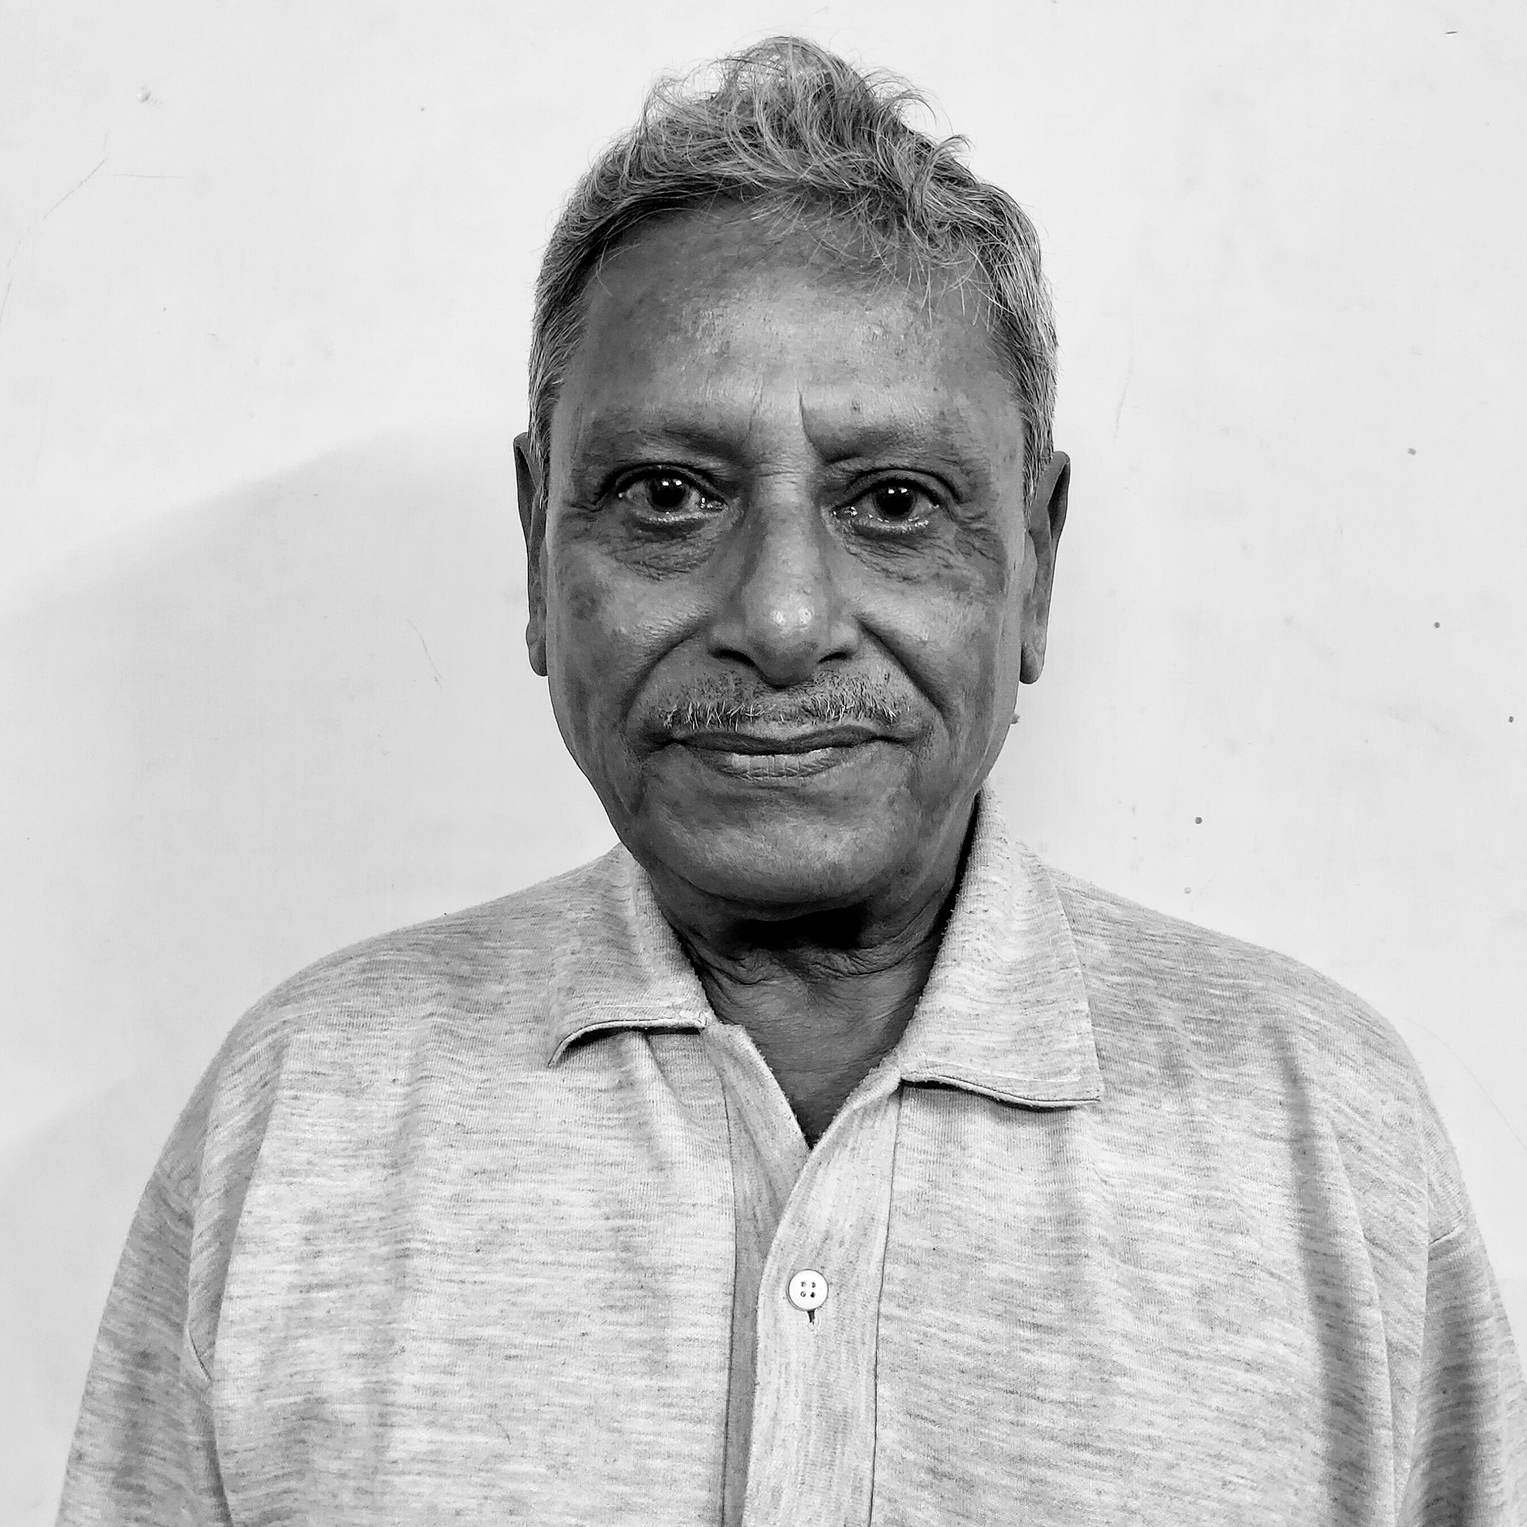
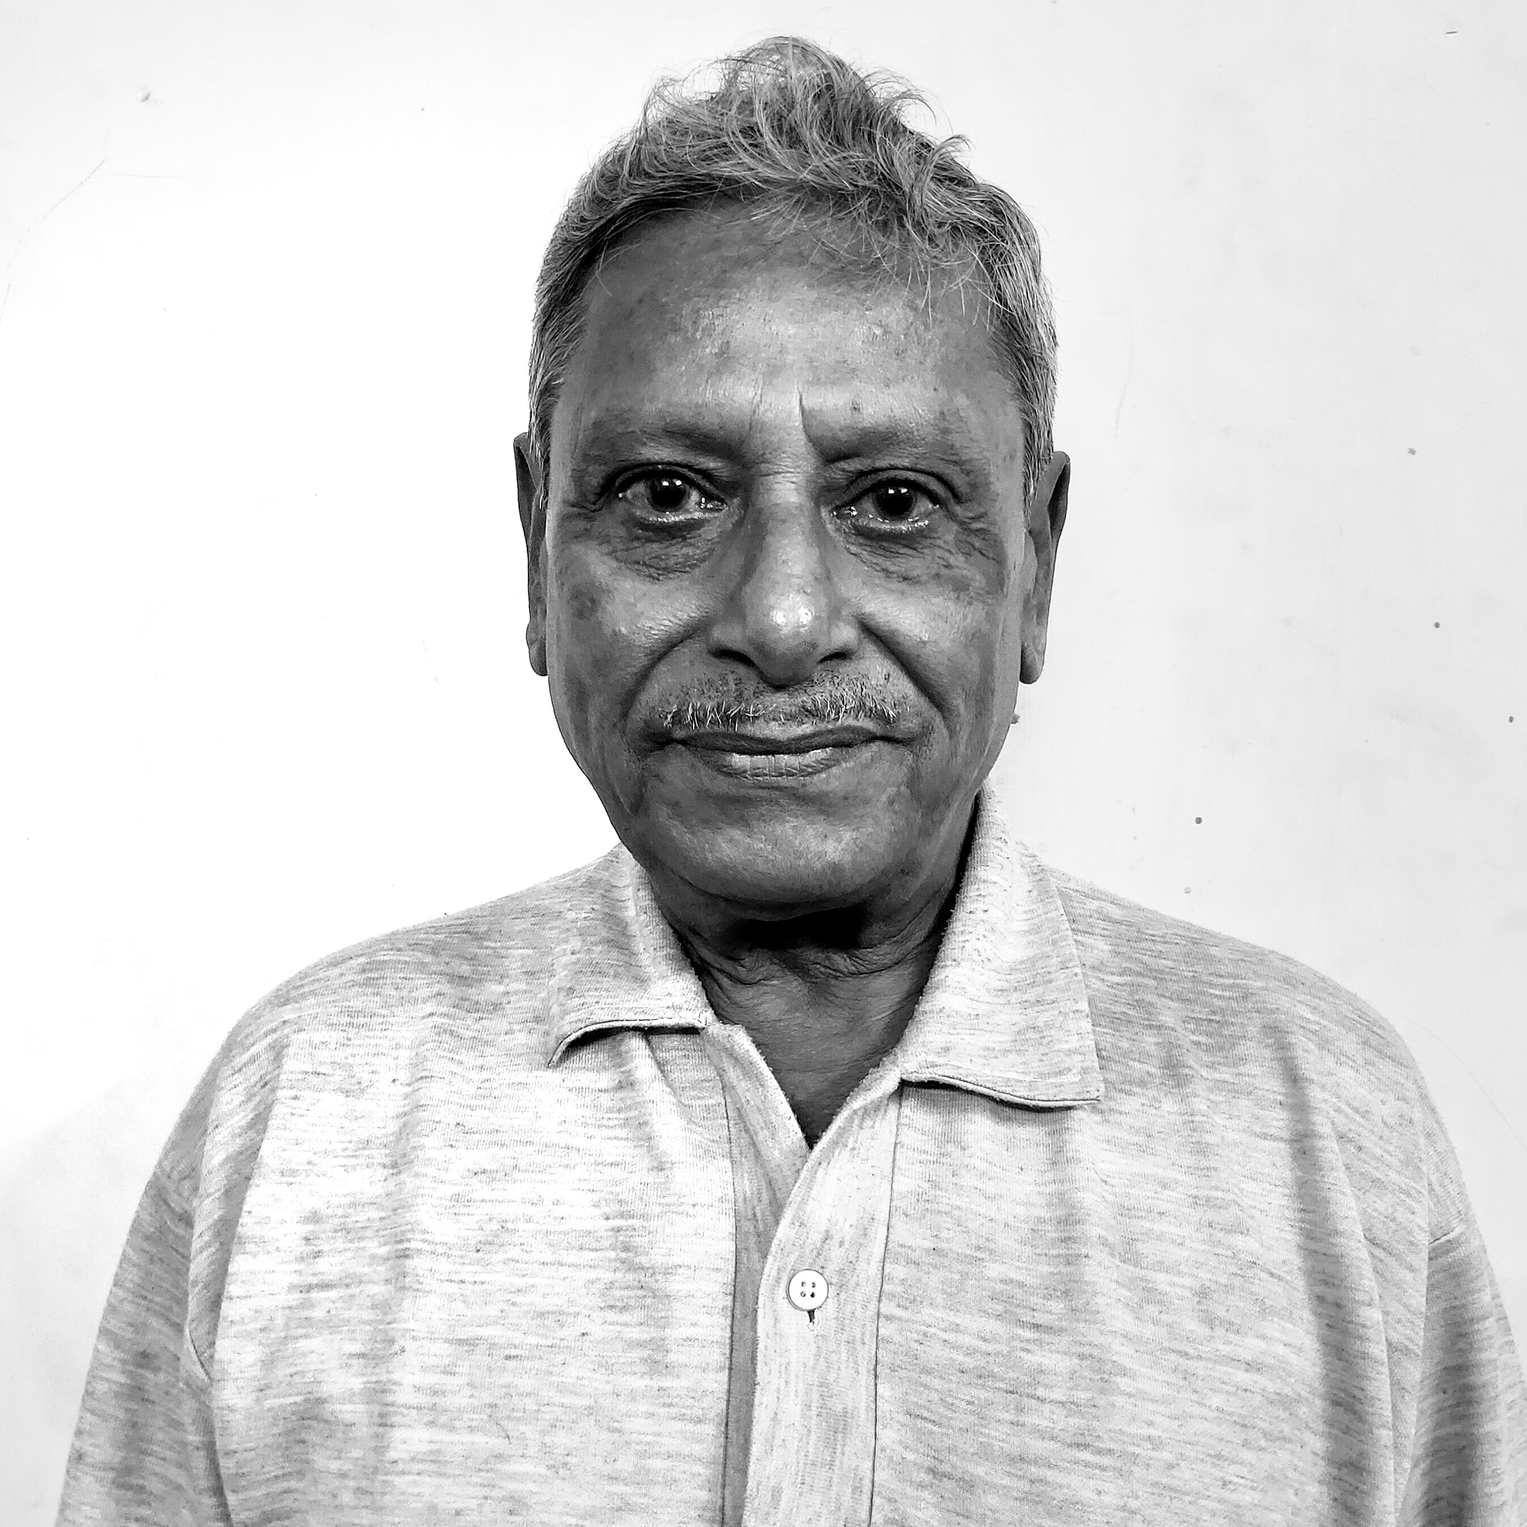
Porfolio Contents added and Team pictures modified

Changed region(s): [[0.0, 0.1246, 0.4985, 0.8724], [0.4985, 0.7166, 0.5297, 0.7478], [0.4985, 0.3739, 0.5297, 0.405]]

diff --git a/index.html b/index.html
@@ -288,7 +288,7 @@
             <div class="row">
                 <div class="col-lg-12 text-center">
                     <h2 class="section-heading">Portfolio</h2>
-                    <h3 class="section-subheading text-muted">Lorem ipsum dolor sit amet consectetur.</h3>
+                    <h3 class="section-subheading text-muted">Some of our early works.</h3>
                 </div>
             </div>
             <div class="row">
@@ -331,7 +331,7 @@
                     </a>
                     <div class="portfolio-caption">
                         <h4>Red Curtain</h4>
-                        <p class="text-muted">Youtube Promotoin</p>
+                        <p class="text-muted">YouTube Promotion</p>
                     </div>
                 </div>
                 <div class="col-md-4 col-sm-6 portfolio-item">
@@ -359,7 +359,7 @@
                     </a>
                     <div class="portfolio-caption">
                         <h4>Mother</h4>
-                        <p class="text-muted">Film Festival Promotoin</p>
+                        <p class="text-muted">Film Festival Promotion</p>
                     </div>
                 </div>
                 <div class="col-md-4 col-sm-6 portfolio-item">
@@ -373,7 +373,7 @@
                     </a>
                     <div class="portfolio-caption">
                         <h4>Ajana Baank</h4>
-                        <p class="text-muted">Youtube Promotoin</p>
+                        <p class="text-muted">YouTube Promotoin</p>
                     </div>
                 </div>
             </div>
@@ -449,8 +449,8 @@
             <div class="row"> -->
                 <div class="col-sm-6 col-md-4">
                     <div class="team-member" itemscope itemtype="http://schema.org/Person">
-                        <img src="img/team/samrat_sengupta.jpg" class="img-responsive img-circle" alt=""
-                            style="width:67%" itemprop="image">
+                        <img src="img/team/samrat.jpeg" class="img-responsive img-circle" alt="" style="width:67%"
+                            itemprop="image">
                         <h4 itemprop="name">Samrat Sengupta</h4>
                         <p class="text-muted" itemprop="jobTitle">Content and Social Media</p>
                         <!--
@@ -719,24 +719,24 @@
                         <div class="col-lg-8 col-lg-offset-2">
                             <div class="modal-body">
                                 <!-- Project Details Go Here -->
-                                <h2>Project Name</h2>
-                                <p class="item-intro text-muted">Lorem ipsum dolor sit amet consectetur.</p>
+                                <h2>Beep & Colorbar</h2>
+                                <p class="item-intro text-muted">Website Design</p>
                                 <img class="img-responsive img-centered" src="img/portfolio/01-thumbnail.png" alt="">
-                                <p>Use this area to describe your project. Lorem ipsum dolor sit amet, consectetur
-                                    adipisicing elit. Est blanditiis dolorem culpa incidunt minus dignissimos deserunt
-                                    repellat aperiam quasi sunt officia expedita beatae cupiditate, maiores repudiandae,
-                                    nostrum, reiciendis facere nemo!</p>
+                                <p>Beep & Colorbar is a production house under which shorts films, featured films are
+                                    taken. The contents of this production house highlight human emotion management,
+                                    women empowerment, and related psychological issues that are often ignored in our
+                                    society. The website of their productions and activities is designed and developed
+                                    by
+                                    Ventus Brands.</p>
                                 <p>
-                                    <strong>Want these icons in this portfolio item sample?</strong>You can download 60
-                                    of them for free, courtesy of <a
-                                        href="https://getdpd.com/cart/hoplink/18076?referrer=bvbo4kax5k8ogc">RoundIcons.com</a>,
-                                    or you can purchase the 1500 icon set <a
-                                        href="https://getdpd.com/cart/hoplink/18076?referrer=bvbo4kax5k8ogc">here</a>.
+                                    <strong> <a href="https://beep-colorbar.com/">Beep and Colorbar website
+                                        </a></strong>
+
                                 </p>
                                 <ul class="list-inline">
-                                    <li>Date: July 2014</li>
-                                    <li>Client: Round Icons</li>
-                                    <li>Category: Graphic Design</li>
+                                    <li>Date: August 2019</li>
+                                    <li>Client: Beep and Colorbar Productions</li>
+                                    <li>Category: Website Design</li>
                                 </ul>
                                 <button type="button" class="btn btn-primary" data-dismiss="modal"><i
                                         class="fa fa-times"></i> Close Project</button>
@@ -762,19 +762,25 @@
                     <div class="row">
                         <div class="col-lg-8 col-lg-offset-2">
                             <div class="modal-body">
-                                <h2>Project Heading</h2>
-                                <p class="item-intro text-muted">Lorem ipsum dolor sit amet consectetur.</p>
+                                <h2>Trickster Span</h2>
+                                <p class="item-intro text-muted">Website Design</p>
                                 <img class="img-responsive img-centered" src="img/portfolio/02-full(2).png" alt="">
-                                <p><a href="http://designmodo.com/startup/?u=787">Startup Framework</a> is a website
-                                    builder for professionals. Startup Framework contains components and complex blocks
-                                    (PSD+HTML Bootstrap themes and templates) which can easily be integrated into almost
-                                    any design. All of these components are made in the same style, and can easily be
-                                    integrated into projects, allowing you to create hundreds of solutions for your
-                                    future projects.</p>
-                                <p>You can preview Startup Framework <a
-                                        href="http://designmodo.com/startup/?u=787">here</a>.</p>
-                                <button type="button" class="btn btn-primary" data-dismiss="modal"><i
-                                        class="fa fa-times"></i> Close Project</button>
+                                <p>Trickster Span productions helmed by Sourav Chakraborty, a creative genius and a
+                                    well-known face in television and films, Trickster is known for its witty and quirky
+                                    content. The house is supported by a band of extremely talented, young minds. They
+                                    are fun, they are crazy. And the junta here is all gung ho about some passionate
+                                    film-making, creating cerebral contents and web-series.
+                                    Ventus Brands designed the website for the production house. </p>
+                                <p>
+                                    <strong> <a href="http://dev.arcvisions.com/trickster">Trickster Span website
+                                        </a></strong>
+
+                                </p>
+                                <ul class="list-inline">
+                                    <li>Date: November 2018</li>
+                                    <li>Client: Trickster Span Productions</li>
+                                    <li>Category: Website Design</li>
+                                </ul>
                             </div>
                         </div>
                     </div>
@@ -797,20 +803,25 @@
                     <div class="row">
                         <div class="col-lg-8 col-lg-offset-2">
                             <div class="modal-body">
-                                <h2>Project Heading</h2>
-                                <p class="item-intro text-muted">Lorem ipsum dolor sit amet consectetur.</p>
+                                <h2>Red Curtain</h2>
+                                <p class="item-intro text-muted">YouTube Promotion</p>
                                 <img class="img-responsive img-centered" src="img/portfolio/03-thumbnail (1).png"
                                     alt="">
-                                <p><a href="http://designmodo.com/startup/?u=787">Startup Framework</a> is a website
-                                    builder for professionals. Startup Framework contains components and complex blocks
-                                    (PSD+HTML Bootstrap themes and templates) which can easily be integrated into almost
-                                    any design. All of these components are made in the same style, and can easily be
-                                    integrated into projects, allowing you to create hundreds of solutions for your
-                                    future projects.</p>
-                                <p>You can preview Startup Framework <a
-                                        href="http://designmodo.com/startup/?u=787">here</a>.</p>
-                                <button type="button" class="btn btn-primary" data-dismiss="modal"><i
-                                        class="fa fa-times"></i> Close Project</button>
+                                <p>Red curtain is a story of a young adult girl, Labonya, whose struggles in her
+                                    personal and professional life as an artist is well depicted to ultimately form a
+                                    career in dancing. Promotion of this short film has been organised and completed by
+                                    Ventus Brands on YouTube and Facebook. Now-a-days Social Media has a great role for
+                                    promoting the
+                                    movies and short films. Red Curtain was a huge success for the production house.</p>
+                                <p>
+                                    <strong> <a href="https://youtu.be/1cQjhYOqIhk">Red Curtain
+                                        </a></strong>
+
+                                </p>
+                                <ul class="list-inline">
+                                    <li>Date: November 2017</li>
+                                    <li>Category: YouTube Promotion</li>
+                                </ul>
                             </div>
                         </div>
                     </div>
@@ -832,19 +843,24 @@
                     <div class="row">
                         <div class="col-lg-8 col-lg-offset-2">
                             <div class="modal-body">
-                                <h2>Project Heading</h2>
-                                <p class="item-intro text-muted">Lorem ipsum dolor sit amet consectetur.</p>
+                                <h2>Cockpit</h2>
+                                <p class="item-intro text-muted">Social Media Publicity</p>
                                 <img class="img-responsive img-centered" src="img/portfolio/04-thumbnail.png" alt="">
-                                <p><a href="http://designmodo.com/startup/?u=787">Startup Framework</a> is a website
-                                    builder for professionals. Startup Framework contains components and complex blocks
-                                    (PSD+HTML Bootstrap themes and templates) which can easily be integrated into almost
-                                    any design. All of these components are made in the same style, and can easily be
-                                    integrated into projects, allowing you to create hundreds of solutions for your
-                                    future projects.</p>
-                                <p>You can preview Startup Framework <a
-                                        href="http://designmodo.com/startup/?u=787">here</a>.</p>
-                                <button type="button" class="btn btn-primary" data-dismiss="modal"><i
-                                        class="fa fa-times"></i> Close Project</button>
+                                <p>Cockpit is an Indian Bengali language drama film directed by Kamaleshwar Mukherjee
+                                    and produced by Dev under the banner of Dev Entertainment Ventures. The film
+                                    features Dev, Koel Mallick and Rukmini Maitra in the lead roles. Publicity of this
+                                    film has been organised and
+                                    completed by
+                                    Ventus Brands on various social media. The work was praised in Bengali industry.</p>
+                                <p>
+                                    <strong> Cockpit
+                                    </strong>
+
+                                </p>
+                                <ul class="list-inline">
+                                    <li>Date: September 2017</li>
+                                    <li>Category: Social Media Publicity</li>
+                                </ul>
                             </div>
                         </div>
                     </div>
@@ -866,19 +882,25 @@
                     <div class="row">
                         <div class="col-lg-8 col-lg-offset-2">
                             <div class="modal-body">
-                                <h2>Project Heading</h2>
-                                <p class="item-intro text-muted">Lorem ipsum dolor sit amet consectetur.</p>
+                                <h2>Mother</h2>
+                                <p class="item-intro text-muted">Film Festival Promotion</p>
                                 <img class="img-responsive img-centered" src="img/portfolio/05-full (2).png" alt="">
-                                <p><a href="http://designmodo.com/startup/?u=787">Startup Framework</a> is a website
-                                    builder for professionals. Startup Framework contains components and complex blocks
-                                    (PSD+HTML Bootstrap themes and templates) which can easily be integrated into almost
-                                    any design. All of these components are made in the same style, and can easily be
-                                    integrated into projects, allowing you to create hundreds of solutions for your
-                                    future projects.</p>
-                                <p>You can preview Startup Framework <a
-                                        href="http://designmodo.com/startup/?u=787">here</a>.</p>
-                                <button type="button" class="btn btn-primary" data-dismiss="modal"><i
-                                        class="fa fa-times"></i> Close Project</button>
+                                <p> Mother is renowned as one of the finest works of the production house. The lead cast
+                                    of most of the work, Mrittika Dey Sarkar, receives the "Best Actress"
+                                    award in Peak City Film Festival for 'Mother' which is soon going to release on
+                                    YouTube. Our team helped the production house to reach the foreign film festivals.
+                                    Mother has also received Cult Crtic Movie award. The Silver award has been given to
+                                    'Mother' at Virgin Spring Contest. The success story of the movie has been shared
+                                    with Ventus Brands.</p>
+                                <p>
+                                    <strong> <a href="https://beep-colorbar.com/about-us.html">Mother
+                                        </a></strong>
+
+                                </p>
+                                <ul class="list-inline">
+                                    <li>Date: April 2018 </li>
+                                    <li>Category: Film Festival Promotion</li>
+                                </ul>
                             </div>
                         </div>
                     </div>
@@ -900,20 +922,26 @@
                     <div class="row">
                         <div class="col-lg-8 col-lg-offset-2">
                             <div class="modal-body">
-                                <h2>Project Heading</h2>
-                                <p class="item-intro text-muted">Lorem ipsum dolor sit amet consectetur.</p>
+                                <h2>Ajana Baank</h2>
+                                <p class="item-intro text-muted">YouTube Promotion</p>
                                 <img class="img-responsive img-centered" src="img/portfolio/06-thumbnail (1).png"
                                     alt="">
-                                <p><a href="http://designmodo.com/startup/?u=787">Startup Framework</a> is a website
-                                    builder for professionals. Startup Framework contains components and complex blocks
-                                    (PSD+HTML Bootstrap themes and templates) which can easily be integrated into almost
-                                    any design. All of these components are made in the same style, and can easily be
-                                    integrated into projects, allowing you to create hundreds of solutions for your
-                                    future projects.</p>
-                                <p>You can preview Startup Framework <a
-                                        href="http://designmodo.com/startup/?u=787">here</a>.</p>
-                                <button type="button" class="btn btn-primary" data-dismiss="modal"><i
-                                        class="fa fa-times"></i> Close Project</button>
+                                <p>This is a story that portrays how a would-be sexual slave of 'Devdasi pratha' gets
+                                    rescued by her beloved and she enjoys a happily married life in absolute acceptance
+                                    with him. Promotion of this short film has been organised and completed by
+                                    Ventus Brands on YouTube and Facebook. Ajana Baank was praised as a early work
+                                    of the
+                                    production house. Our effort of promoting this short film was a great experience in
+                                    the early stages.</p>
+                                <p>
+                                    <strong> <a href="https://youtu.be/I3N2hvw3djE">Ajana Baank
+                                        </a></strong>
+
+                                </p>
+                                <ul class="list-inline">
+                                    <li>Date: September 2016</li>
+                                    <li>Category: YouTube Promotion</li>
+                                </ul>
                             </div>
                         </div>
                     </div>
